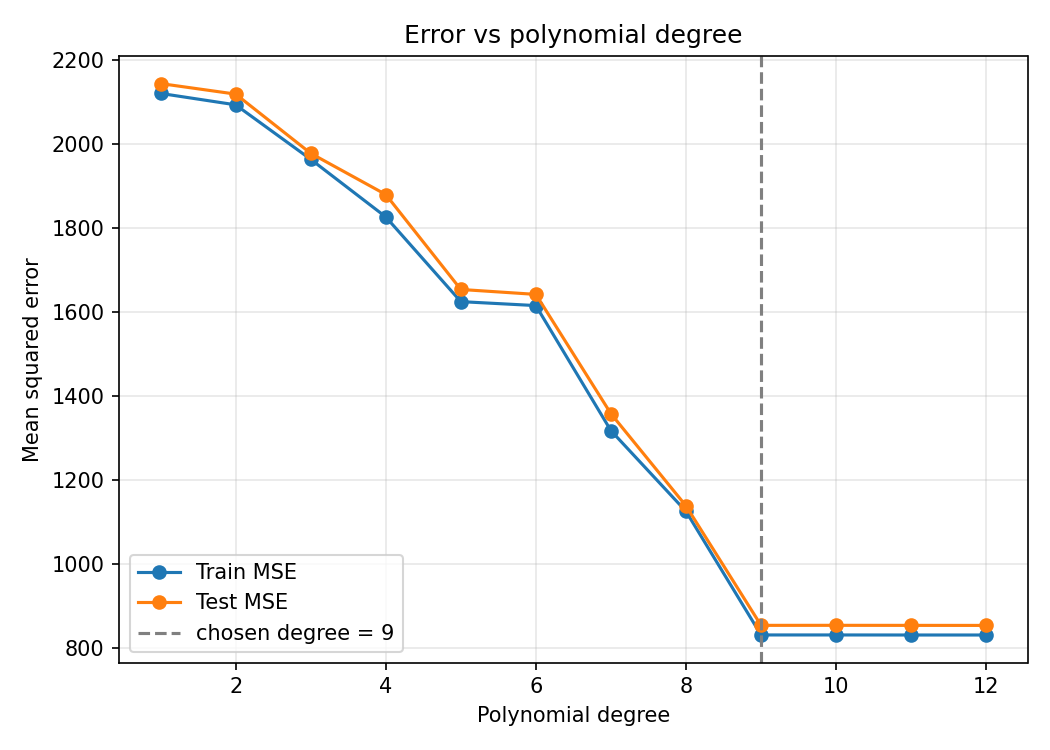
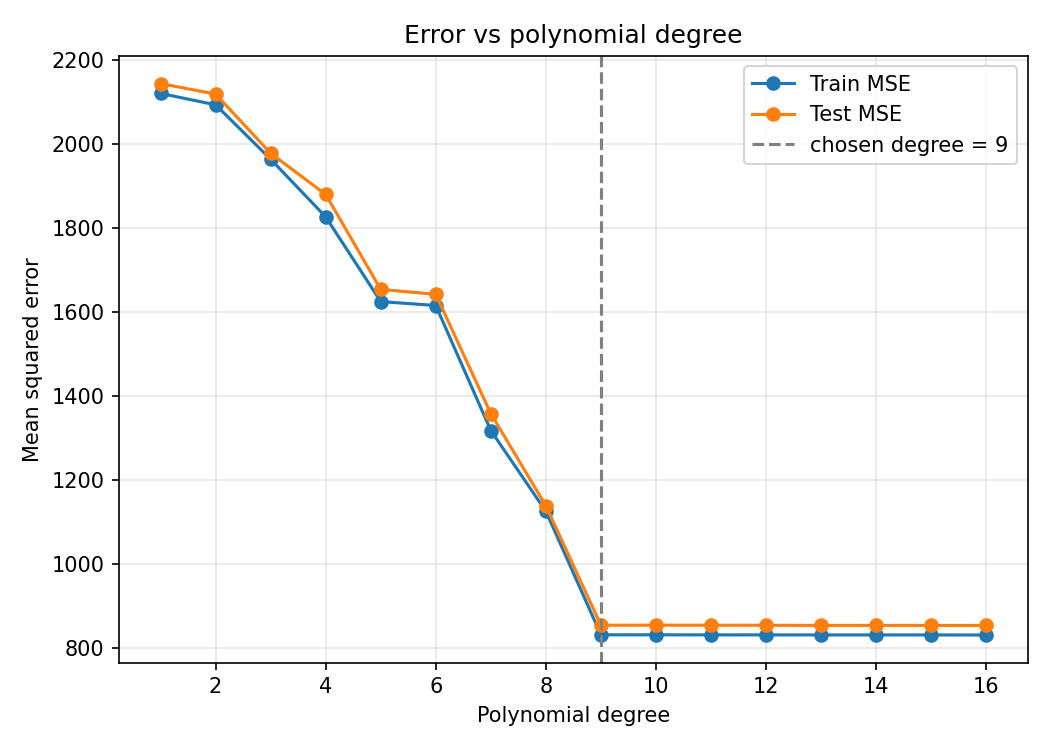
Underfit & Overfit Checking Corrections

diff --git a/assignment_3/main.py b/assignment_3/main.py
@@ -159,15 +159,28 @@ def plotFittedCurve(xs, ys, xSorted, weights, chosenDegree):
     plt.close()
 
 
-def plotUnderfitOverfitComparison(xs, ys, xTrain, yTrain, xSorted, chosenDegree, chosenW):
-    degreesToShow = [2, chosenDegree, 15]
+def classifyFit(trainMse, testMse, chosenTrainMse, chosenTestMse, threshold=0.01):
+    trainBetter = trainMse < chosenTrainMse * (1 - threshold)
+    trainWorse = trainMse > chosenTrainMse * (1 + threshold)
+    testBetter = testMse < chosenTestMse * (1 - threshold)
+    testWorse = testMse > chosenTestMse * (1 + threshold)
+    if trainBetter and testWorse:
+        return "overfit"
+    if trainWorse and testWorse:
+        return "underfit"
+    if testBetter:
+        return "better than chosen fit"
+    return "excess complexity - no gain"
+
+
+def plotUnderfitOverfitComparison(xs, ys, xSorted, degreesToShow, resultsByDegree, chosenDegree, chosenTrainMse, chosenTestMse):
     fig, axes = plt.subplots(1, 3, figsize=(15, 4.5), sharey=True)
     for ax, degree in zip(axes, degreesToShow):
-        w = chosenW if degree == chosenDegree else fitPolynomial(xTrain, yTrain, degree)
+        trainMse, testMse, w = resultsByDegree[degree]
         yFit = predict(w, xSorted)
+        label = "chosen fit" if degree == chosenDegree else classifyFit(trainMse, testMse, chosenTrainMse, chosenTestMse)
         ax.scatter(xs, ys, s=3, alpha=0.15)
         ax.plot(xSorted, yFit, color="red", linewidth=2)
-        label = "underfit" if degree < chosenDegree else ("chosen fit" if degree == chosenDegree else "overfit")
         ax.set_title(f"degree {degree} ({label})")
         ax.set_xlabel("x")
         ax.grid(alpha=0.3)
@@ -182,7 +195,7 @@ if __name__ == "__main__":
     xTrain, yTrain, xTest, yTest, xVal, yVal = splitData(xs, ys, 0.6, 0.2, seed=42)
 
     results = []
-    for degree in range(1, 13):
+    for degree in range(1, 17):
         w = fitPolynomial(xTrain, yTrain, degree)
         trainPred = predict(w, xTrain)
         testPred = predict(w, xTest)
@@ -205,7 +218,10 @@ if __name__ == "__main__":
             break
 
     chosenDegree = elbowDegree
-    chosenW = [r[3] for r in results if r[0] == chosenDegree][0]
+    chosenResult = [r for r in results if r[0] == chosenDegree][0]
+    chosenTrainMse = chosenResult[1]
+    chosenTestMse = chosenResult[2]
+    chosenW = chosenResult[3]
     valPred = predict(chosenW, xVal)
     valMse = computeMse(yVal, valPred)
 
@@ -224,6 +240,8 @@ if __name__ == "__main__":
         f.write(f"val_mse,{valMse}\n")
         f.write("weights," + ",".join(str(v) for v in chosenW) + "\n")
 
+    resultsByDegree = {r[0]: (r[1], r[2], r[3]) for r in results}
+
     degrees = [r[0] for r in results]
     trainErrs = [r[1] for r in results]
     testErrs = [r[2] for r in results]
@@ -231,6 +249,8 @@ if __name__ == "__main__":
 
     xSorted = mergeSort(xs)
     plotFittedCurve(xs, ys, xSorted, chosenW, chosenDegree)
-    plotUnderfitOverfitComparison(xs, ys, xTrain, yTrain, xSorted, chosenDegree, chosenW)
+
+    degreesToShow = [2, chosenDegree, 16]
+    plotUnderfitOverfitComparison(xs, ys, xSorted, degreesToShow, resultsByDegree, chosenDegree, chosenTrainMse, chosenTestMse)
 
     print("saved degree_vs_error.png, fitted_curve.png, underfit_overfit_comparison.png")
